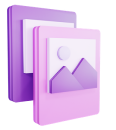
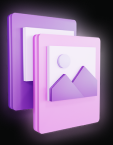
BG-header-img add update

diff --git a/index.html b/index.html
@@ -46,7 +46,7 @@
             </nav>
         </div>
     </header>
-    <section class="position-relative" id="Home">
+    <section class="position-relative Header-bg-img effect_hover" id="Home">
         <div class="container">
             <div class="d-flex align-items-center justify-content-center text-center flex-column pt-78">
                 <p class="fs-36 fw-600 ff-Jost color-white h-s-1-m-w m-0 p-0">START THE MINI-COURSE: <span
@@ -55,9 +55,11 @@
                 <P class="fs-24 fw-600 ff-Jost color-white h-s-1-para-m-w pt-4 m-0 p-0">LEARN ALL THE SKILLS YOU NEED TO
                     BECOME A SOFTWARE ENGINEER!</P>
             </div>
-            <div class="d-flex align-items-center justify-content-center">
-                <img src="./assets/images/Header-img.png" alt="#"
-                    class="object-fit-contain overflow-hidden Header-img w-100 pt-4 m-0 p-0">
+            <div class="d-flex justify-content-center pt-5">
+                <iframe class="My_vadio w-100 h-100" src="https://www.youtube.com/embed/RfpJdYX-eMw?si=-TTOROkwI6y3CLHZ"
+                    title="YouTube video player" frameborder="0"
+                    allow="accelerometer; autoplay; clipboard-write; encrypted-media; gyroscope; picture-in-picture; web-share"
+                    referrerpolicy="strict-origin-when-cross-origin" allowfullscreen></iframe>
             </div>
             <div class="d-flex align-items-center justify-content-center text-center flex-column">
                 <p class="fs-24 fw-600 ff-Jost color-white pt-4 m-0 p-0">BECOME A <span
@@ -70,30 +72,20 @@
                         class="object-fit-contain overflow-hidden Phone-icon m-0 p-0">
                 </div>
             </div>
-            <div class="Linear-geadient linear-geadient w-96">
-                <div class="d-flex align-items-center justify-content-center ml-2">
-                    <img src="./assets/images/timeline.png" alt="#"
-                        class="object-fit-contain overflow-hidden timeline w-95 w-88 m-0 p-0">
-                </div>
-                <div class="d-flex justify-content-between">
-                    <img src="./assets/images/Vadio-icon-left.png" alt="#"
-                        class="object-fit-contain overflow-hidden Vadio-icon-left m-0 p-0">
-                    <img src="./assets/images/Vadio-icon-right.png" alt="#"
-                        class="object-fit-contain overflow-hidden Vadio-icon-right m-0 p-0">
-                </div>
-            </div>
         </div>
         <div
-            class="d-flex align-items-center justify-content-center text-center flex-column icon-box position-absolute gap-3">
-            <img src="./assets/images/Twitter.png" alt="#" class="object-fit-contain overflow-hidden cursor m-0 p-0">
-            <img src="./assets/images/Instagram.png" alt="#" class="object-fit-contain overflow-hidden cursor m-0 p-0">
-            <img src="./assets/images/Telegram.png" alt="#" class="object-fit-contain overflow-hidden cursor m-0 p-0">
-            <img src="./assets/images/IN.png" alt="#" class="object-fit-contain overflow-hidden cursor m-0 p-0">
+            class="d-flex align-items-center hover_effect justify-content-center text-center flex-column icon-box gap-3 position-absolute">
+            <a href="https://twitter.com/?lang=en" target="_blank"> <img src="./assets/images/Twitter.png"
+                    alt="svg"></a>
+            <a href="https://www.instagram.com/" target="_blank"> <img src="./assets/images/Instagram.png"
+                    alt="svg"></a>
+            <a href="https://web.telegram.org/" target="_blank"><img src="./assets/images/Telegram.png" alt="svg"></a>
+            <a href="#" target="_blank"><img src="./assets/images/IN.png" alt="svg"></a>
         </div>
         <img src="./assets/images/Ellipse-header-img.png" alt="#"
             class="object-fit-contain overflow-hidden Ellipse-header-img Ellipse-d-n m-0 p-0">
     </section>
-    <section class="py-5" id="How it works">
+    <section class="position-relative py-5" id="How it works">
         <div class="container">
             <div class="row align-items-center justify-content-center flex-direction-sm-reverse">
                 <div class="col-lg-8 col-12 mt-9">
@@ -132,7 +124,7 @@
         <img src="./assets/images/Ellipse-S-2-img.png" alt="#"
             class="object-fit-contain overflow-hidden Ellipse-S-2-img Ellipse-d-n m-0 p-0">
     </section>
-    <section class="py-5">
+    <section class="position-relative py-5">
         <div class="container">
             <div class="d-flex align-items-center justify-content-center text-center flex-column">
                 <p class="fs-50 fw-500 ff-Jost color-light-white s-3-para-m-w m-0 p-0">“From Confused to Coder”:
@@ -162,8 +154,6 @@
                     <div class="d-flex align-items-center justify-content-end">
                         <img src="./assets/images/Box-1-img.png" alt="#"
                             class="object-fit-contain overflow-hidden Box-1-img m-0 p-0">
-                        <img src="./assets/images/Box-1-img.png" alt="#"
-                            class="object-fit-contain overflow-hidden blur-img blur-10 z-n1 m-0 p-0">
                     </div>
                 </div>
                 <div class="box-1 position-relative">
@@ -183,8 +173,6 @@
                     <div class="d-flex align-items-center justify-content-end">
                         <img src="./assets/images/Box-1-img-2.png" alt="#"
                             class="object-fit-contain overflow-hidden Box-1-img-2 m-0 p-0">
-                        <img src="./assets/images/Box-1-img-2.png" alt="#"
-                            class="object-fit-contain overflow-hidden blur-img blur-10 z-n1 m-0 p-0">
                     </div>
                 </div>
                 <div class="box-1 position-relative">
@@ -204,8 +192,6 @@
                     <div class="d-flex align-items-center justify-content-end">
                         <img src="./assets/images/Box-1-img-3.png" alt="#"
                             class="object-fit-contain overflow-hidden Box-1-img m-0 p-0">
-                        <img src="./assets/images/Box-1-img-3.png" alt="#"
-                            class="object-fit-contain overflow-hidden blur-img blur-10 z-n1 m-0 p-0">
                     </div>
                 </div>
             </div>
@@ -351,7 +337,7 @@
             </div>
         </div>
     </section>
-    <section class="pt-sm-45 d-flex">
+    <section class="position-relative pt-sm-45 d-flex">
         <div class="container">
             <div class="row align-items-center justify-content-center flex-direction-sm-reverse">
                 <div class="col-lg-8 col-12 mt-9">
@@ -376,7 +362,7 @@
         <img src="./assets/images/Ellipse-S-4-img.png" alt="#"
             class="object-fit-contain overflow-hidden Ellipse-S-4-img Ellipse-d-n m-0 p-0">
     </section>
-    <section class="py-5">
+    <section class="position-relative py-5">
         <div class="container">
             <div class="d-flex align-items-center justify-content-center text-center flex-column">
                 <p class="fs-50 fw-500 ff-Jost color-light-white m-0 p-0">Who Are<span

diff --git a/assets/css/style.css b/assets/css/style.css
@@ -132,7 +132,7 @@ nav {
     top: 0;
     z-index: 23;
     position: sticky;
-    background-color: #000000;
+    background-color: #0E0E0F;
 }
 
 .nav:hover {
@@ -358,7 +358,7 @@ nav {
 }
 
 .slider-pare-m-w {
-    max-width: 348px;
+    width: 348px;
 }
 
 .slider-pare-2-m-w {
@@ -403,6 +403,13 @@ nav {
     border-top: 1px solid #535050 !important;
 }
 
+.Header-bg-img {
+    background-size: cover;
+    background-position: center;
+    background-repeat: no-repeat;
+    background-image: url("../images/Header-bg-img.png");
+}
+
 .Linear-geadient {
     height: 64px;
     background-size: cover;
@@ -438,8 +445,8 @@ nav {
 
 .Ellipse-header-img {
     position: absolute;
-    top: 26%;
-    left: 76%;
+    top: 30%;
+    left: 90%;
 }
 
 .Ellipse-S-2-img {
@@ -464,6 +471,23 @@ nav {
     position: absolute;
     left: 80%;
     top: 435%;
+}
+
+.My_vadio {
+    width: 100%;
+    height: 100%;
+    max-width: 996px;
+    min-height: 476px;
+    max-height: 476px;
+    border-radius: 24px;
+}
+
+.hover_effect {
+    left: -100px;
+}
+
+.effect_hover:hover .hover_effect {
+    left: 0;
 }
 
 @media (max-width:1920px) {
@@ -512,24 +536,28 @@ nav {
     }
 
     .Ellipse-header-img {
-        top: 21%;
-        left: 86%;
+        top: 25%;
+        left: 89%;
     }
 
     .Ellipse-S-2-img {
+        top: 73%;
         left: 0%;
     }
 
     .Ellipse-S-3-img {
+        top: 79%;
         left: 86%;
     }
 
     .Ellipse-S-4-img {
         left: 2%;
+        top: -30%;
     }
 
     .Ellipse-S-5-img {
         left: 88%;
+        top: 79%;
     }
 }
 
@@ -540,11 +568,21 @@ nav {
     }
 
     .h-s-1-para-m-w {
-        max-width: 446px !important;
+        max-width: 578px !important;
     }
 
     .s-3-para-m-w {
         max-width: 865px !important;
+    }
+
+    .prev {
+        left: 2%;
+        bottom: 50%;
+    }
+
+    .next {
+        left: 94%;
+        bottom: 50%;
     }
 
     .w-95 {
@@ -570,20 +608,20 @@ nav {
     }
 
     .Ellipse-S-2-img {
-        top: 257%;
+        top: 74%;
     }
 
     .Ellipse-S-3-img {
-        top: 393%;
+        top: 100%;
     }
 
     .Ellipse-S-4-img {
-        top: 613%;
+        top: -31%;
     }
 
     .Ellipse-S-5-img {
         left: 89%;
-        top: 795%;
+        top: 83%;
     }
 }
 
@@ -788,6 +826,10 @@ nav {
     .icon-box {
         width: 40px;
         height: 199px;
+    }
+
+    .slider-pare-m-w {
+        width: 322px;
     }
 }
 
